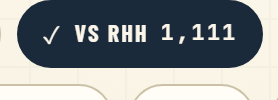
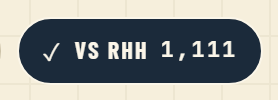
Pill slice 4: a pressed paper control keeps a paper edge
On a navy club bar the selected navy chip was 1.01:1 against the bar.
One Pill rule gives a selected paper control a paper edge, so the chip
keeps its outline on any bar. Gary's call on #1211.

diff --git a/test/pill-paper-pressed.test.js b/test/pill-paper-pressed.test.js
@@ -1,0 +1,50 @@
+// A pressed paper control keeps a paper edge (#1131 slice 4, Gary's call).
+//
+// A paper Pill control rides a coloured band: the masthead toggles
+// (.mastheadpill: Bullpen, "vs pitcher", MLB only, AAA log) sit on a club's
+// bar. Pressed, every control takes the ink fill, navy. On the Brewers' navy
+// bar that is 1.01:1, so the pressed chip disappears; the old yellow was
+// 8.6:1. The fix is ONE Pill rule, not a host tint: a pressed paper control
+// draws its edge in paper, so the chip keeps its outline on any bar.
+//
+// The edge reads a paper token, never a club colour (ADR-0030) and never the
+// seal (ADR-0083).
+import test from 'node:test'
+import assert from 'node:assert/strict'
+import { readFileSync } from 'node:fs'
+import { fileURLToPath } from 'node:url'
+import { dirname, join } from 'node:path'
+
+const PILL = join(dirname(fileURLToPath(import.meta.url)), '..', 'src', 'styles', 'system', 'pill.css')
+const css = readFileSync(PILL, 'utf8').replace(/\/\*[\s\S]*?\*\//g, '')
+
+const rules = [...css.matchAll(/([^{}]+)\{([^{}]*)\}/g)].map((m) => ({
+  selectors: m[1].split(',').map((s) => s.trim().replace(/\s+/g, ' ')),
+  body: m[2],
+}))
+
+const decl = (body, property) =>
+  body
+    .split(';')
+    .map((d) => d.trim())
+    .find((d) => d.startsWith(`${property}:`))
+    ?.slice(property.length + 1)
+    .trim()
+
+for (const state of ["[aria-pressed='true']", "[aria-current='page']"]) {
+  const selector = `.pill--control.pill--paper${state}`
+
+  test(`a paper control ${state} draws a paper edge`, () => {
+    const found = rules.filter((r) => r.selectors.includes(selector))
+    assert.equal(found.length, 1, `one ${selector} rule in system/pill.css`)
+    assert.equal(decl(found[0].body, 'border-color'), 'var(--surface-card)')
+    assert.doesNotMatch(found[0].body, /--bar-|--seal|--marker/, 'no club colour, seal or marker')
+  })
+}
+
+test('the paper edge rule comes after the selected rule, so it wins at equal weight too', () => {
+  const selected = rules.findIndex((r) => r.selectors.includes(".pill--control[aria-pressed='true']"))
+  const paper = rules.findIndex((r) => r.selectors.includes(".pill--control.pill--paper[aria-pressed='true']"))
+  assert.ok(selected >= 0, 'the selected rule exists')
+  assert.ok(paper > selected, 'the paper edge rule follows the selected rule')
+})

diff --git a/src/styles/system/pill.css b/src/styles/system/pill.css
@@ -86,7 +86,9 @@
      selected        [aria-pressed="true"] or [aria-current="page"]. Ink fill
                      AND a leading tick — the contract button.css wrote for
                      "Pill (#1131) inherits exactly this". The tick survives
-                     forced-colors mode; the fill alone would not.
+                     forced-colors mode; the fill alone would not. A
+                     PAPER control keeps a paper edge when selected, so
+                     the navy chip still shows on a navy club bar.
      focus-visible   a 2px --focus-ring outline, 2px off the capsule.
      disabled        :disabled or [aria-disabled="true"]. The fill stays and
                      drops to --opacity-disabled. Never repainted.
@@ -272,6 +274,16 @@
   content: '✓' / '';
   flex: none;
   line-height: var(--lh-solid);
+}
+
+/* A pressed PAPER control keeps a paper edge. Paper is the fill that rides a
+   coloured band, and the selected navy vanishes into a navy club bar (1.01:1
+   on the Brewers'). The paper edge keeps the chip's outline on any bar. It
+   reads a paper token, never the bar (ADR-0030).
+   test/pill-paper-pressed.test.js holds it. */
+.pill--control.pill--paper[aria-pressed='true'],
+.pill--control.pill--paper[aria-current='page'] {
+  border-color: var(--surface-card);
 }
 
 .pill--control:focus-visible {

diff --git a/src/lib/design/contrastPairings.js b/src/lib/design/contrastPairings.js
@@ -96,6 +96,9 @@ export const PAIRINGS = [
   { fg: 'clay', bg: 'surface-card', min: TEXT, note: 'pill ink --clay on card' },
   { fg: 'clay', bg: 'bg-page', min: TEXT, note: 'pill ink --clay on page' },
   { fg: 'text-body', bg: 'surface-card', min: TEXT, note: 'pill paper fill text' },
+  // A pressed paper control's paper edge, against a navy club bar (the
+  // Brewers' bar is the house navy). A non-text edge, so the 3:1 bar.
+  { fg: 'surface-card', bg: 'navy', min: UI, note: 'pressed paper pill edge on a navy bar' },
   // THE PILL'S TINTS AND INSET CHIPS (#1131 slice 2). A tint sets the pill's
   // fill and ink as a pair, so each pair a host passes is asserted here. The
   // pairs already on this list elsewhere are not repeated: --field-deep on

diff --git a/.scratch/design-system/pill-collapse/s4/after/sheet.md b/.scratch/design-system/pill-collapse/s4/after/sheet.md
@@ -1,6 +1,6 @@
 # Contact sheet — after
 
-390px unless a target sets its own width (1280px for the reveal, hover-card and tab targets), ?nointro, captured from http://localhost:5171. Crops: `<name>.png` (tag in its row) and `<name>--tag.png` (2x).
+390px unless a target sets its own width (1280px for the reveal, hover-card and tab targets), ?nointro, captured from http://localhost:5169. Crops: `<name>.png` (tag in its row) and `<name>--tag.png` (2x).
 
 | tag | selector | h | w | host h | padding T R B L | font | size | tracking | line-h | border | fill | ink | edge |
 | --- | --- | ---: | ---: | ---: | --- | --- | ---: | --- | --- | --- | --- | --- | --- |
@@ -8,7 +8,7 @@
 | mastheadpill-navybar | `.mastheadpill` | 34 | 86.2 | 34 | 0 12 0 12 | Barlow Condensed | 12 | 1.08px | 14.4px | 1 solid | rgb(251, 246, 233) | rgb(27, 42, 58) | rgb(203, 193, 167) |
 | slate-chip | `.slate-filterbar__chip` | 34 | 142.5 | 76 | 0 12 0 12 | Barlow Condensed | 12 | 1.08px | 14.4px | 1 solid | color(srgb 0.896941 0.843765 0.743529) | rgb(15, 24, 34) | rgb(138, 90, 30) |
 | cmdmap-chip | `.cmdmap__chip` | 34 | 107.5 | 34 | 0 12 0 12 | Barlow Condensed | 12 | 1.08px | 14.4px | 1 solid | rgb(255, 253, 246) | rgb(60, 74, 90) | rgb(203, 193, 167) |
-| cmdmap-chip-on | `.cmdmap__chip[aria-pressed="true"]` | 34 | 105.7 | 34 | 0 12 0 12 | Barlow Condensed | 12 | 1.08px | 14.4px | 1 solid | rgb(27, 42, 58) | rgb(251, 246, 233) | rgb(27, 42, 58) |
+| cmdmap-chip-on | `.cmdmap__chip[aria-pressed="true"]` | 34 | 105.7 | 34 | 0 12 0 12 | Barlow Condensed | 12 | 1.08px | 14.4px | 1 solid | rgb(27, 42, 58) | rgb(251, 246, 233) | rgb(251, 246, 233) |
 | cmdmap-chip-thin | `.cmdmap__chip--thin` | 34 | 80 | 76 | 0 12 0 12 | Barlow Condensed | 12 | 1.08px | 14.4px | 1 dashed | rgb(246, 239, 220) | rgb(107, 101, 88) | rgb(203, 193, 167) |
 | depthpos | `.depthpos` | 34 | 40.3 | 74 | 0 12 0 12 | JetBrains Mono | 11 | 0.55px | 13.2px | 1 solid | rgba(0, 0, 0, 0) | rgb(27, 42, 58) | rgb(203, 193, 167) |
 | scorebook-filter | `.scorebookstory__filters button` | 34 | 90.8 | 42 | 0 12 0 12 | Barlow Condensed | 12 | 1.08px | 14.4px | 1 solid | rgba(0, 0, 0, 0) | rgb(27, 42, 58) | rgb(203, 193, 167) |
